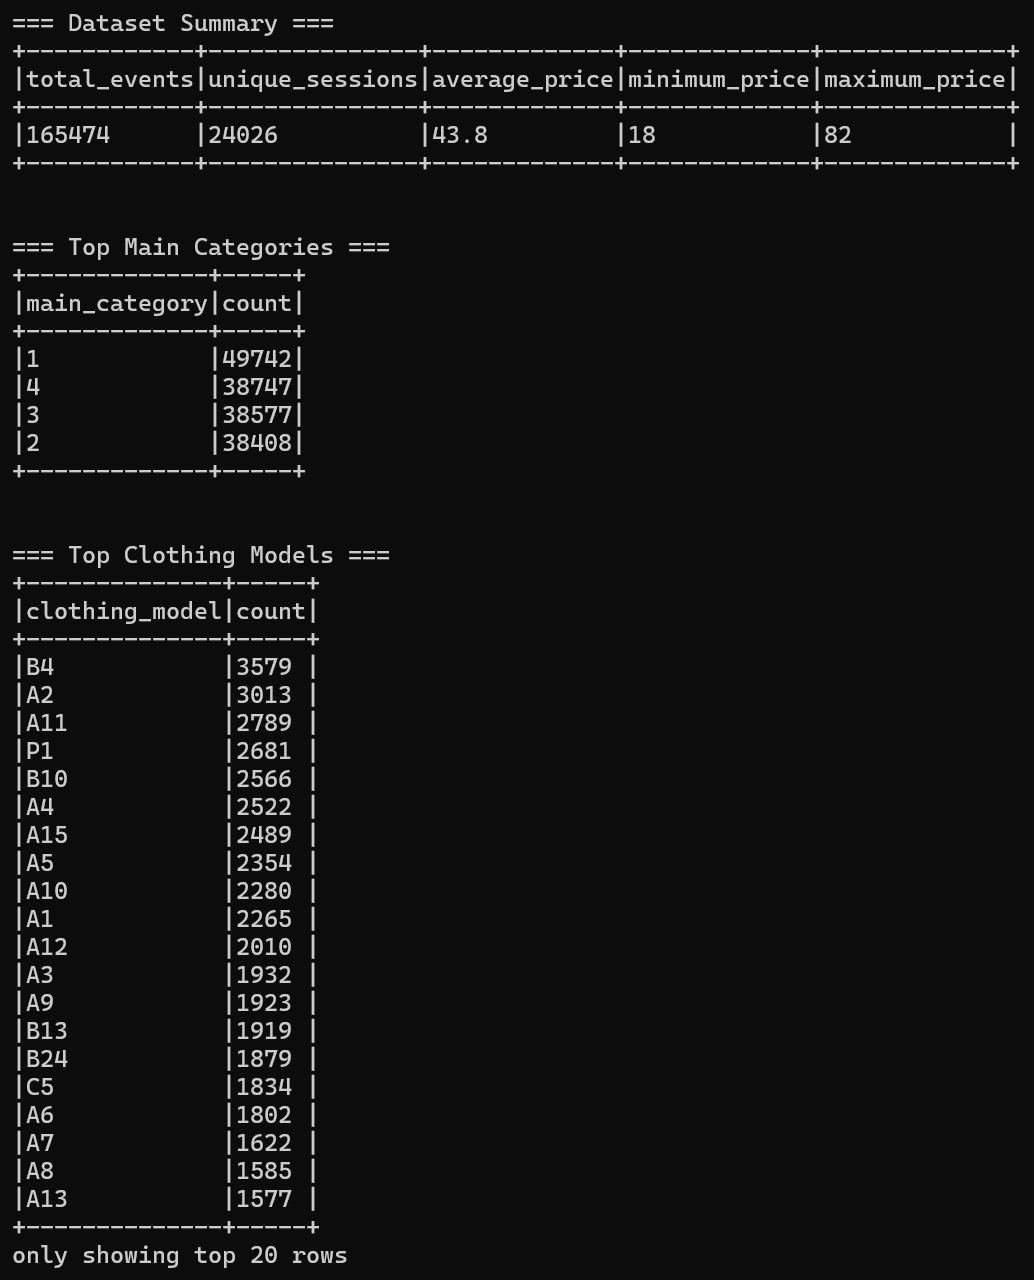
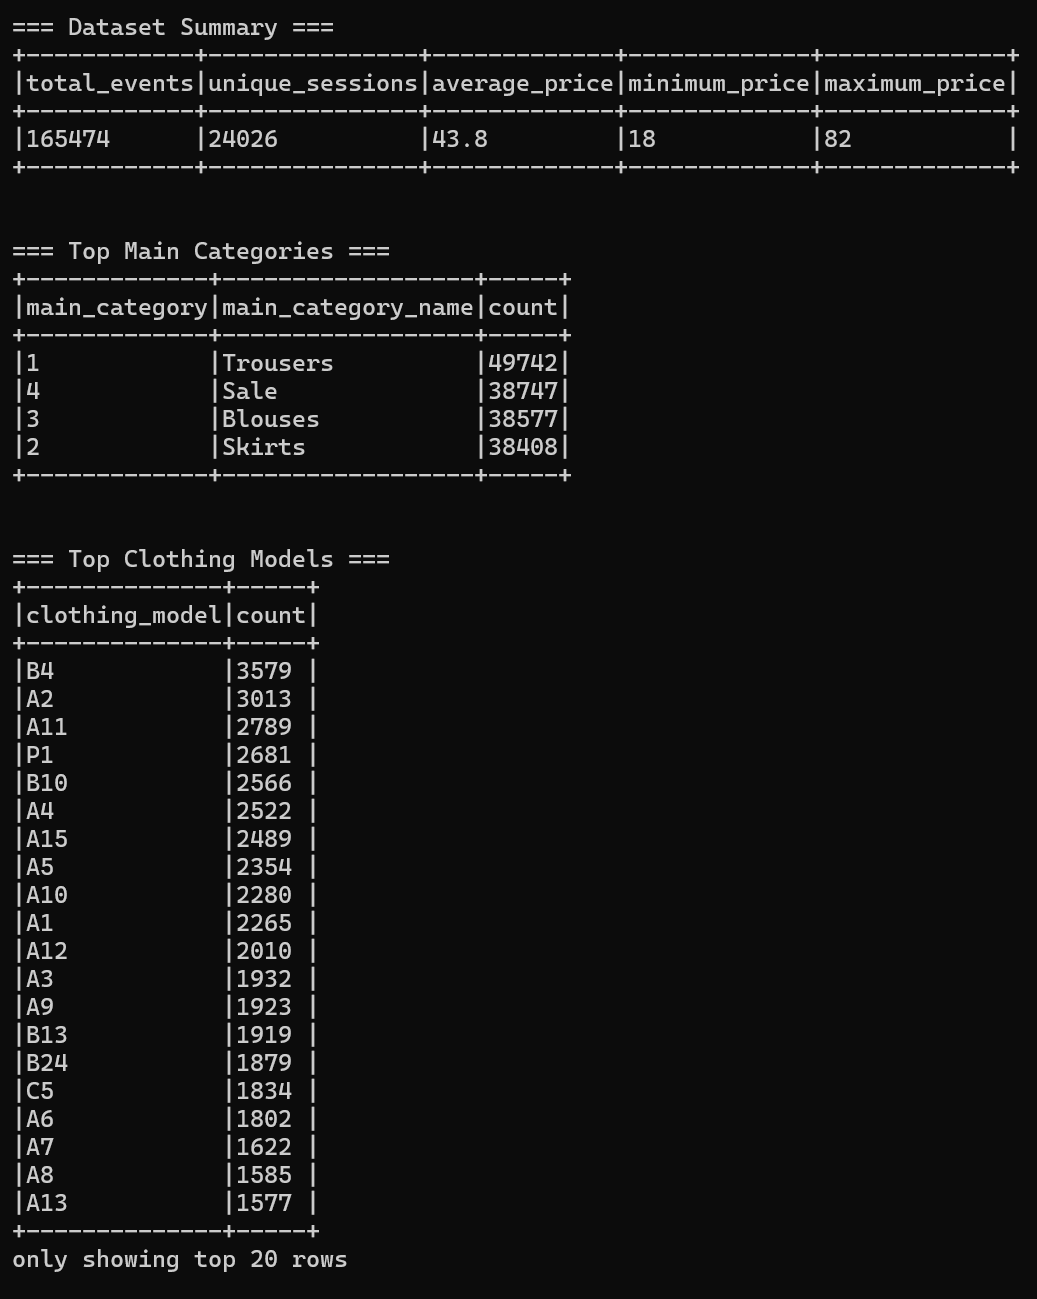
Revisi Readme dan gambar

diff --git a/README.md b/README.md
@@ -689,84 +689,51 @@ Dashboard akan membaca file `latest_snapshot.json` dan `history.jsonl` yang diha
 
 >(Warning) Apabila dashboard tidak terupdate, jalankan ulang Step 6.
 
+![dashboard-1](assets/dashboard-1.png)
+![dashboard-2](assets/dashboard-2.png)
+
 Jika dashboard berhasil berjalan, akan muncul beberapa komponen utama:
 
 ### Real-Time Metrics
 
 Dashboard menampilkan informasi ringkas mengenai kondisi streaming saat ini, meliputi:
 
-- Batch ID terbaru
-- Timestamp pembaruan terakhir
-- Total event yang telah diproses
+- Total Events: Jumlah kumulatif event yang telah diproses Spark sejak job dimulai.
+- Batch ID: Nomor micro-batch terkini yang sedang diproses.
+- Top Category: Kategori produk dengan jumlah klik tertinggi pada batch ini.
+- Last Update: Timestamp terakhir snapshot diperbarui
+>> Finding: Kartu Top Category secara langsung mengidentifikasi kategori produk yang paling diminati pengguna saat ini. Pada contoh di atas, kategori Blouses memimpin trafik, mengindikasikan produk atasan wanita menjadi prioritas pencarian pengunjung toko.
 
-Contoh:
 
-```text
-Batch ID: 28
-Updated At: 2026-05-29T13:38:33Z
-Total Events: 345
-```
+### Category Distribution (Current Batch)
 
-### Views by Main Category
+Bar chart yang menunjukkan distribusi jumlah klik per kategori produk fashion pada batch terkini.
 
-Visualisasi bar chart yang menunjukkan jumlah view untuk masing-masing kategori produk fashion berdasarkan hasil agregasi Spark Structured Streaming.
+>> Finding: Dominasi satu kategori dibanding lainnya, seperti Blouses pada contoh di atas yang mengindikasikan produk tersebut sedang aktif dijelajahi pengguna secara real-time. Informasi ini dapat digunakan untuk memprioritaskan penempatan produk unggulan atau menjalankan promosi kilat pada kategori yang sedang ramai.
 
-Contoh:
+###  Trending Colors
+Tabel progress bar dan bar chart horizontal yang menampilkan preferensi warna produk berdasarkan jumlah klik.
 
-```text
-Main Category 1 : 110
-Main Category 2 : 110
-Main Category 3 : 76
-Main Category 4 : 49
-```
+>> Finding: Dominasi warna Gray mencerminkan preferensi konsumen terhadap warna netral. Informasi ini berguna untuk optimasi stok gudang — produk dengan warna populer perlu dipastikan ketersediaannya lebih tinggi dibanding warna lain.
 
-### Total Events per Batch
+### Event Trend per Batch
+Line chart yang menunjukkan jumlah total event yang diproses pada setiap micro-batch dari waktu ke waktu.
 
-Grafik line chart yang menunjukkan perkembangan jumlah event yang berhasil diproses pada setiap micro-batch.
+>>Finding: Lonjakan tajam di awal kemudian melandai menunjukkan pola produksi data yang wajar. Jika grafik tiba-tiba turun atau flat, itu adalah sinyal bahwa producer atau Kafka job mengalami masalah dan perlu dicek.
 
-Karena aggregation menggunakan *complete output mode*, jumlah event akan terus bertambah selama producer masih mengirimkan data ke Kafka.
+### Cumulative Total Processed Events
+Line chart yang menampilkan akumulasi total event sejak streaming dimulai.
 
-### Current Snapshot Rows
+>> Finding: Kurva yang terus naik secara konsisten mengkonfirmasi pipeline berjalan normal. Kurva yang mendatar mengindikasikan producer berhenti mengirim data.
 
-Tabel yang menampilkan hasil agregasi terbaru yang tersimpan pada file `latest_snapshot.json`.
+### Quick Insights
+Tiga kartu ringkasan otomatis yang menyajikan interpretasi singkat dari data terkini, meliputi kategori dengan trafik tertinggi, tren preferensi warna konsumen, dan performa keseluruhan pipeline streaming.
 
-Contoh:
 
-| main_category | count |
-|--------------|-------|
-| 1 | 110 |
-| 2 | 110 |
-| 3 | 76 |
-| 4 | 49 |
-
-### Batch History
-
-Tabel riwayat seluruh micro-batch yang telah diproses Spark.
-
-Informasi yang ditampilkan meliputi:
-
-- Batch ID
-- Timestamp update
-- Total events
-- Distribusi count per kategori
-
-Contoh:
-
-| batch_id | total_events |
-|----------|-------------|
-| 28 | 345 |
-| 27 | 334 |
-| 26 | 323 |
 
 ---
 
 ### Dashboard Validation
-
-![dashboard-1](assets/dashboard-1.png)
-![dashboard-2](assets/dashboard-2.png)
-![dashboard-3](assets/dashboard-3.png)
-![dashboard-4](assets/dashboard-4.png)
-![dashboard-5](assets/dashboard-5.png)
 
 Dashboard dianggap berhasil apabila:
 
@@ -981,6 +948,8 @@ Selain menampilkan hasil ke terminal, Spark juga akan menyimpan hasil analisis k
 
 ![batch-1](assets/batch-1.png)
 ![batch-2](assets/batch-2.png)
+![batch-3](assets/batch-3.png)
+![batch-4](assets/batch-4.png)
 
 ---
 
@@ -1000,18 +969,24 @@ Output:
 ├── top_categories
 ├── top_models
 ├── country_distribution
+└── colour_distribution
+└── location_distribution
+└── price_level_distribution
 ├── avg_price_by_category
 └── page_distribution
 ```
 
 ```
-Found 6 items
-drwxr-xr-x   - spark supergroup          0 2026-05-31 16:25 /alp/output/batch_analysis/avg_price_by_category
-drwxr-xr-x   - spark supergroup          0 2026-05-31 16:25 /alp/output/batch_analysis/country_distribution
-drwxr-xr-x   - spark supergroup          0 2026-05-31 16:25 /alp/output/batch_analysis/page_distribution
-drwxr-xr-x   - spark supergroup          0 2026-05-31 16:25 /alp/output/batch_analysis/summary
-drwxr-xr-x   - spark supergroup          0 2026-05-31 16:25 /alp/output/batch_analysis/top_categories
-drwxr-xr-x   - spark supergroup          0 2026-05-31 16:25 /alp/output/batch_analysis/top_models
+Found 9 items
+drwxr-xr-x   - spark supergroup          0 2026-06-11 07:01 /alp/output/batch_analysis/avg_price_by_category
+drwxr-xr-x   - spark supergroup          0 2026-06-11 07:01 /alp/output/batch_analysis/colour_distribution
+drwxr-xr-x   - spark supergroup          0 2026-06-11 07:01 /alp/output/batch_analysis/country_distribution
+drwxr-xr-x   - spark supergroup          0 2026-06-11 07:01 /alp/output/batch_analysis/location_distribution
+drwxr-xr-x   - spark supergroup          0 2026-06-11 07:01 /alp/output/batch_analysis/page_distribution
+drwxr-xr-x   - spark supergroup          0 2026-06-11 07:01 /alp/output/batch_analysis/price_level_distribution
+drwxr-xr-x   - spark supergroup          0 2026-06-11 07:01 /alp/output/batch_analysis/summary
+drwxr-xr-x   - spark supergroup          0 2026-06-11 07:01 /alp/output/batch_analysis/top_categories
+drwxr-xr-x   - spark supergroup          0 2026-06-11 07:01 /alp/output/batch_analysis/top_models
 ```
 
 Spark Master:
@@ -1048,10 +1023,9 @@ docker exec -it alp-namenode hdfs dfs -cat "/alp/output/batch_analysis/top_categ
 Contoh output:
 
 ```json
-{"main_category":1,"count":49742}
-{"main_category":4,"count":38747}
-{"main_category":3,"count":38577}
-{"main_category":2,"count":38408}
+{"main_category":1,"main_category_name":"Trousers","count":49742}
+{"main_category":4,"main_category_name":"Sale","count":38747}
+{"main_category":3,"main_category_name":"Blouses","count":38577}
 ```
 
 ---
@@ -1068,8 +1042,6 @@ Contoh output:
 {"clothing_model":"B4","count":3579}
 {"clothing_model":"A2","count":3013}
 {"clothing_model":"A11","count":2789}
-{"clothing_model":"P1","count":2681}
-{"clothing_model":"B10","count":2566}
 ...
 ```
 
@@ -1084,10 +1056,59 @@ docker exec -it alp-namenode hdfs dfs -cat "/alp/output/batch_analysis/country_d
 Contoh output:
 
 ```json
-{"country":29,"count":133963}
-{"country":9,"count":18003}
-{"country":24,"count":4091}
+{"country":29,"country_name":"Poland","count":133963}
+{"country":9,"country_name":"Czech Republic","count":18003}
+{"country":24,"country_name":"Lithuania","count":4091}
 ...
+```
+
+---
+
+### Colour Distribution
+
+```bash
+docker exec -it alp-namenode hdfs dfs -cat "/alp/output/batch_analysis/colour_distribution/part-*"
+```
+
+Contoh output:
+
+```json
+{"colour":2,"colour_name":"Black","count":29764}
+{"colour":3,"colour_name":"Blue","count":29259}
+{"colour":6,"colour_name":"Gray","count":17476}
+...
+```
+
+---
+
+### Location Distribution
+
+```bash
+docker exec -it alp-namenode hdfs dfs -cat "/alp/output/batch_analysis/location_distribution/part-*"
+```
+
+Contoh output:
+
+```json
+{"location":1,"location_name":"Top Left","count":34532}
+{"location":2,"location_name":"Top Middle","count":33383}
+{"location":3,"location_name":"Top Right","count":21656}
+...
+```
+
+---
+
+### Price Level Distribution
+
+```bash
+docker exec -it alp-namenode hdfs dfs -cat "/alp/output/batch_analysis/price_level_distribution/part-*"
+```
+
+Contoh output:
+
+```json
+{"price_level":1,"price_level_name":"Above Average","count":84695}
+{"price_level":2,"price_level_name":"Below Average","count":80779}
 ```
 
 ---
@@ -1101,10 +1122,10 @@ docker exec -it alp-namenode hdfs dfs -cat "/alp/output/batch_analysis/avg_price
 Contoh output:
 
 ```json
-{"main_category":1,"average_price":46.71,"total_views":49742}
-{"main_category":2,"average_price":51.19,"total_views":38408}
-{"main_category":3,"average_price":40.29,"total_views":38577}
-{"main_category":4,"average_price":36.23,"total_views":38747}
+{"main_category":1,"main_category_name":"Trousers","average_price":46.71,"total_views":49742}
+{"main_category":2,"main_category_name":"Skirts","average_price":51.19,"total_views":38408}
+{"main_category":3,"main_category_name":"Blouses","average_price":40.29,"total_views":38577}
+...
 ```
 
 ---
@@ -1150,6 +1171,9 @@ File batch_analysis.json berisi hasil ringkasan batch analysis yang akan dibaca 
 - Country distribution
 - Average price by category
 - Page distribution
+- Colour distribution
+- Location distribution
+- Price level distribution
 
 Untuk melihat isi file batch dashboard secara langsung, jalankan:
 
@@ -1181,16 +1205,20 @@ http://localhost:8051
 ```
 
 Dashboard batch dianggap berhasil apabila halaman 📦 Batch Analysis menampilkan:
-- Total Events
-- Unique Sessions
-- Average Price
-- Minimum Price
-- Maximum Price
-- Most Popular Main Categories
-- Top Clothing Models
-- Country Distribution
-- Average Price by Category
-- Page Distribution
+- Total Events: Menampilkan jumlah keseluruhan aktivitas klik yang tercatat selama periode pengamatan. Digunakan sebagai indikator skala dataset yang diproses.
+- Unique Sessions: Menampilkan jumlah sesi belanja unik yang terjadi. Mencerminkan jumlah pengunjung berbeda yang pernah mengakses toko selama periode tersebut.
+- Average Price: Menampilkan rata-rata harga produk yang dikunjungi seluruh pengguna. Memberikan gambaran umum rentang harga produk yang paling banyak dieksplorasi.
+- Minimum Price: Menampilkan harga produk terendah yang ada dalam dataset. Berguna untuk memahami batas bawah segmentasi harga toko.Maximum PriceMenampilkan harga produk tertinggi yang ada dalam dataset. Berguna untuk memahami batas atas segmentasi harga toko.
+- Most Popular Main Categories: Menampilkan kategori produk utama yang paling banyak diklik. Membantu identifikasi segmen produk yang paling diminati secara historis.
+- Top Clothing Models: Menampilkan model pakaian spesifik dengan jumlah view tertinggi. Dapat digunakan sebagai dasar rekomendasi produk unggulan.
+- Country Distribution: Menampilkan distribusi pengunjung berdasarkan negara asal. Mengidentifikasi pasar utama dan potensi ekspansi ke wilayah lain.
+- Average Price by CategoryMenampilkan rata-rata harga untuk setiap kategori produk. Memungkinkan perbandingan segmentasi harga antar kategori.
+- Page Distribution: Menampilkan sebaran kunjungan pengguna berdasarkan nomor halaman katalog. Mengungkap seberapa jauh pengguna menjelajahi katalog, mayoritas pengguna yang berhenti di halaman pertama mengindikasikan perlunya optimasi tampilan awal.
+
+![db-1](assets/db-1.png)
+![db-2](assets/db-2.png)
+![db-3](assets/db-3.png)
+![db-4](assets/db-4.png)
 
 ### Setup Selesai
 ```
@@ -1221,12 +1249,12 @@ Dataset menunjukkan aktivitas browsing yang cukup tinggi dengan lebih dari 165 r
 
 | Main Category | Total Views |
 |----------|----------:|
-| 1 | 49,742 |
-| 4 | 38,747 |
-| 3 | 38,577 |
-| 2 | 38,408 |
+| Trousers | 49,742 |
+| Sale | 38,747 |
+| Blouses | 38,577 |
+| Skirt | 38,408 |
 
-Kategori 1 merupakan kategori yang paling sering dikunjungi dengan hampir 50 ribu view. Temuan ini menunjukkan bahwa kategori tersebut memiliki tingkat ketertarikan pengguna yang paling tinggi dibandingkan kategori lainnya.
+Kategori Trousers merupakan kategori yang paling sering dikunjungi dengan hampir 50 ribu view. Temuan ini menunjukkan bahwa kategori tersebut memiliki tingkat ketertarikan pengguna yang paling tinggi dibandingkan kategori lainnya.
 
 Insight ini dapat digunakan untuk:
 
@@ -1258,13 +1286,11 @@ Model B4 merupakan produk yang paling sering dilihat oleh pengguna. Produk-produ
 
 | Country | Total Views |
 |----------|----------:|
-| 29 | 133,963 |
-| 9 | 18,003 |
-| 24 | 4,091 |
-| 46 | 2,522 |
-| 44 | 1,385 |
+| Poland | 133,963 |
+| Czech Republic | 18,003 |
+| Lithuania | 4,091 |
 
-Sebagian besar aktivitas pengguna berasal dari Country 29 yang menyumbang lebih dari 80% total traffic.
+Sebagian besar aktivitas pengguna berasal dari Country Poland yang menyumbang lebih dari 80% total traffic.
 
 Insight ini menunjukkan bahwa pasar utama platform berada pada wilayah tersebut sehingga strategi pemasaran dapat difokuskan pada negara tersebut untuk memperoleh hasil yang lebih optimal.
 
@@ -1274,16 +1300,14 @@ Insight ini menunjukkan bahwa pasar utama platform berada pada wilayah tersebut 
 
 | Category | Average Price | Total Views |
 |----------|----------:|----------:|
-| 2 | 51.19 | 38,408 |
-| 1 | 46.71 | 49,742 |
-| 3 | 40.29 | 38,577 |
-| 4 | 36.23 | 38,747 |
+| Skirts | 51.19 | 38,408 |
+| Trousers | 46.71 | 49,742 |
+| Blouses | 40.29 | 38,577 |
+| Sale | 36.23 | 38,747 |
 
-Kategori 2 memiliki harga rata-rata tertinggi, namun bukan kategori dengan jumlah view tertinggi.
+Kategori Skirts memiliki harga rata-rata tertinggi namun bukan kategori dengan jumlah view tertinggi. Sebaliknya, Trousers memiliki jumlah view tertinggi dengan harga rata-rata yang lebih rendah.
 
-Sebaliknya, kategori 1 memiliki jumlah view tertinggi dengan harga rata-rata yang lebih rendah.
-
-Hal ini menunjukkan bahwa pengguna cenderung lebih aktif mengeksplorasi produk dengan rentang harga menengah dibandingkan produk dengan harga tertinggi.
+Hal ini menunjukkan bahwa pengguna cenderung lebih aktif mengeksplorasi produk dengan rentang harga menengah. Kategori Sale dengan harga terendah tetap menarik trafik yang tinggi, memperkuat indikasi bahwa harga adalah faktor pertimbangan utama pengguna.
 
 ---
 
@@ -1297,7 +1321,7 @@ Hal ini menunjukkan bahwa pengguna cenderung lebih aktif mengeksplorasi produk d
 | 4 | 8,861 |
 | 5 | 2,823 |
 
-Lebih dari setengah aktivitas pengguna terjadi pada halaman pertama katalog.
+Lebih dari setengah aktivitas (56%) pengguna terjadi pada halaman pertama katalog.
 
 Jumlah view menurun secara signifikan pada halaman-halaman berikutnya.
 
